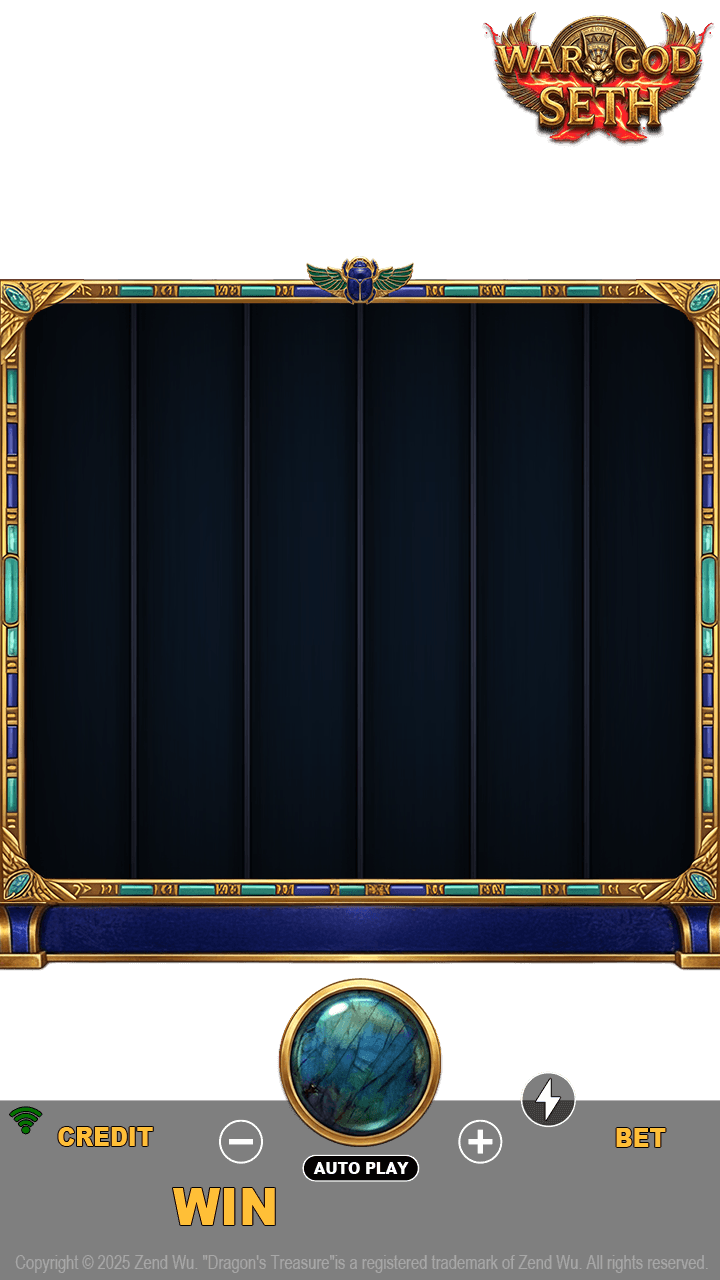
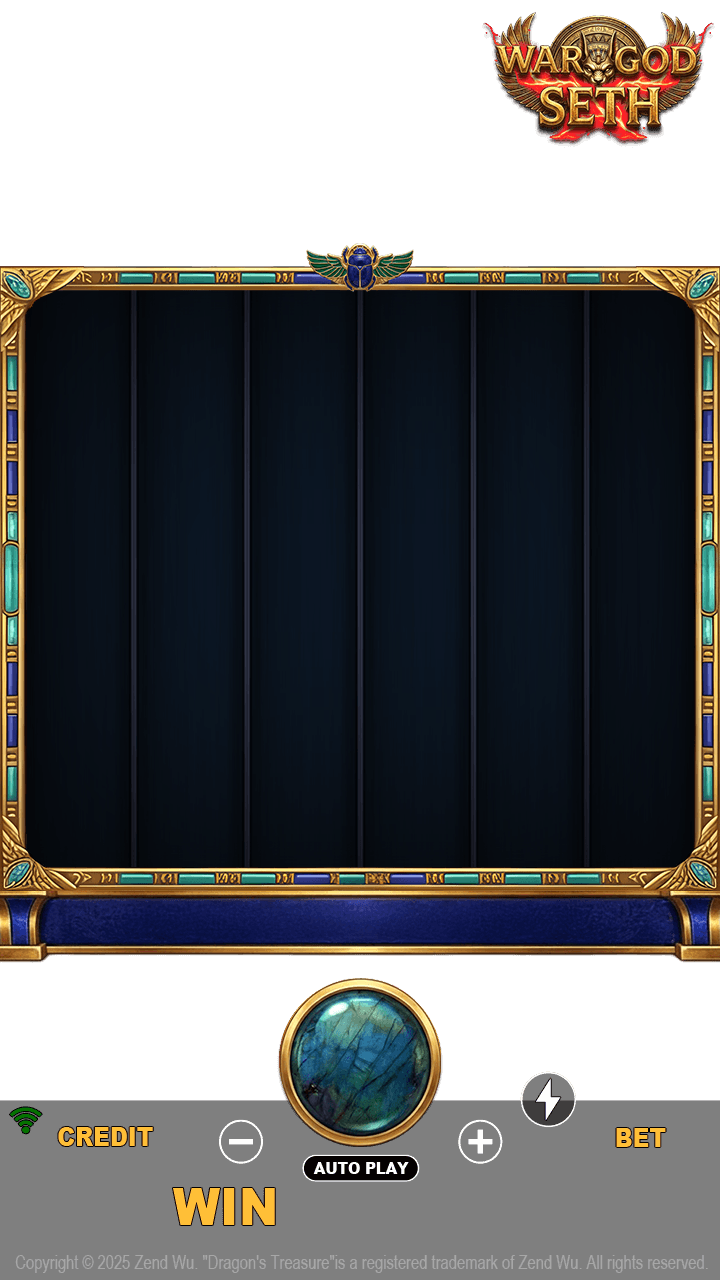
Add files via upload

Changed region(s): [[0.0, 0.1875, 1.0, 0.7812]]

diff --git a/index.html b/index.html
@@ -9,13 +9,29 @@
         html, body { margin: 0; padding: 0; height: 100%; width: 100%; overflow: hidden; background-color: #000; touch-action: none; position: fixed; }
         body { background-image: url('background.jpg'); background-size: cover; background-position: center; background-repeat: no-repeat; display: flex; justify-content: center; align-items: center; font-family: 'Arial', sans-serif; user-select: none; -webkit-user-select: none; }
         
-        .stage { position: relative; width: calc(100vh * 9 / 16); height: 100vh; max-width: 100vw; aspect-ratio: 720/1280; background-color: transparent; opacity: 0; transition: opacity 0.5s ease-in; }
+        .stage { 
+            position: relative; 
+            height: 100vh; 
+            width: calc(100vh * 9 / 16); 
+            max-width: 100vw; 
+            max-height: calc(100vw * 16 / 9); /* 🌟 核心防護：寬度被壓時，強制壓低高度維持 9:16 */
+            background-color: transparent; 
+            opacity: 0; 
+            transition: opacity 0.5s ease-in; 
+        }
         .stage.loaded { opacity: 1; }
 
         /* --- 2. 載入過場 --- */
         #loading-layer { position: fixed; top: 0; left: 0; width: 100%; height: 100%; background-color: transparent; z-index: 9999; display: flex; justify-content: center; align-items: center; transition: opacity 0.5s ease-out; }
         #loading-layer.hidden { opacity: 0; pointer-events: none; }
-        .loading-container { position: relative; width: calc(100vh * 9 / 16); height: 100vh; max-width: 100vw; aspect-ratio: 720/1280; display: flex; flex-direction: column; justify-content: flex-end; align-items: center; }
+        .loading-container { 
+            position: relative; 
+            height: 100vh; 
+            width: calc(100vh * 9 / 16); 
+            max-width: 100vw; 
+            max-height: calc(100vw * 16 / 9); /* 🌟 同步鎖定載入畫面比例 */
+            display: flex; flex-direction: column; justify-content: flex-end; align-items: center; 
+        }
         .loading-visual { position: absolute; top: 0; left: 0; width: 100%; height: 100%; object-fit: cover; z-index: 0; }
         .loading-bottom-ui { position: relative; z-index: 10; width: 70%; margin-bottom : 12%; display: flex; flex-direction: column; align-items: center; text-align: center; }
         #btn-start-game { margin-top: 3vh; padding: 1.5vh 6vh; font-family: 'Arial Black', sans-serif; font-size: 2.8vh; color: #fff; background: linear-gradient(180deg, #ff4500, #8b0000); border: 2px solid #ffd700; border-radius: 50px; box-shadow: 0 0 20px rgba(255, 69, 0, 0.8), inset 0 0 10px rgba(255, 255, 0, 0.3); cursor: pointer; display: block; animation: pulseBtn 1.5s infinite; }
@@ -43,7 +59,7 @@
         .free-mode .buy-button { display: none; }
 
         /* --- 4. 捲軸與長條滾動系統 --- */
-        .reel-viewport { position: absolute; top: calc(21.2% + 20px); left: 0; width: 100%; height: 45.0%; overflow: hidden; z-index: 10; }
+        .reel-viewport { position: absolute; top: 22.76%; left: 0; width: 100%; height: 45.0%; overflow: hidden; z-index: 10; }
         .grid-container { width: 93.5%; height: 100%; margin: 0 auto; display: flex; justify-content: space-between; }
         .column { position: relative; width: 16.5%; height: 100%; display: block; z-index: 1; }
         
@@ -100,7 +116,7 @@
         #ui-multiplier, #ui-free-spins { display: none; font-size: 2.5vh; color: #00FFFF; text-shadow: 0 0 10px #0000FF; bottom: 18%; position: absolute; z-index: 500;}
         #ui-multiplier { right: 5%; } #ui-free-spins { left: 5%; }
        
-        #ui-message-bar { position: absolute; bottom: calc(26.7% - 20px); left: 50%; transform: translateX(-50%); width: 92%; height: 6vh; display: none; align-items: center; justify-content: center; z-index: 600; overflow: hidden; }
+        #ui-message-bar { position: absolute; bottom: 25.14%; left: 50%; transform: translateX(-50%); width: 92%; height: 6vh; display: none; align-items: center; justify-content: center; z-index: 600; overflow: hidden; }
         #msg-content { display: inline-block; white-space: nowrap; transition: transform 0.3s ease-out; padding: 0 10px; }
         .style-win { font-family: 'Arial Black', sans-serif; font-size: 3.5vh; color: #FFFF00; text-shadow: 2px 2px 0px #FF4500, 0 0 10px #FF8C00; letter-spacing: 1px; }
         .style-promo { font-family: 'Arial', sans-serif !important; font-weight: bold !important; font-size: 2.8vh !important; color: #7492d9 !important; text-shadow: 2px 2px 0px #000 !important; }
